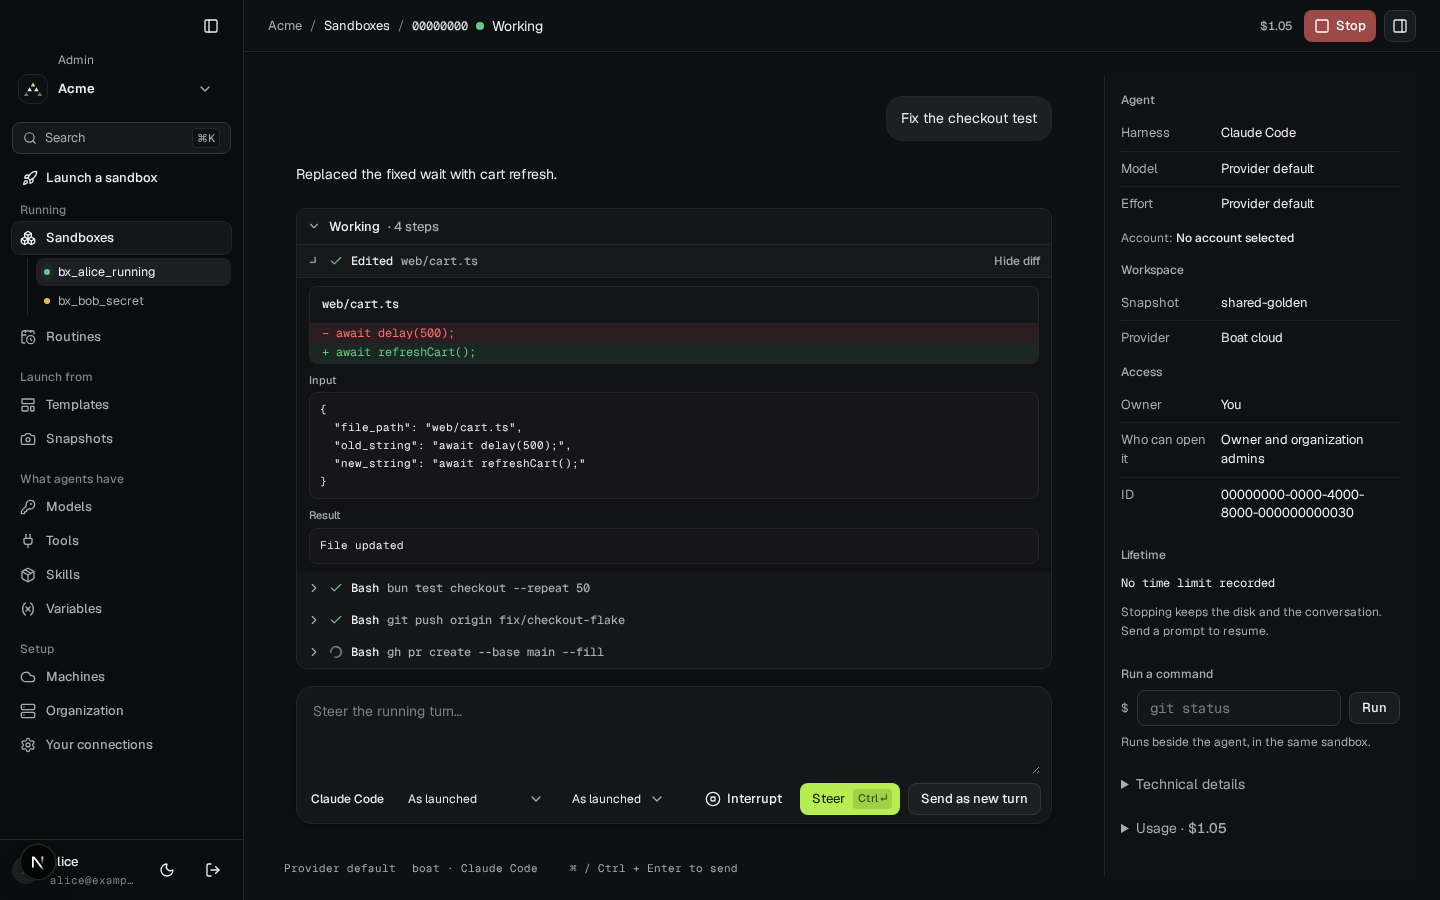
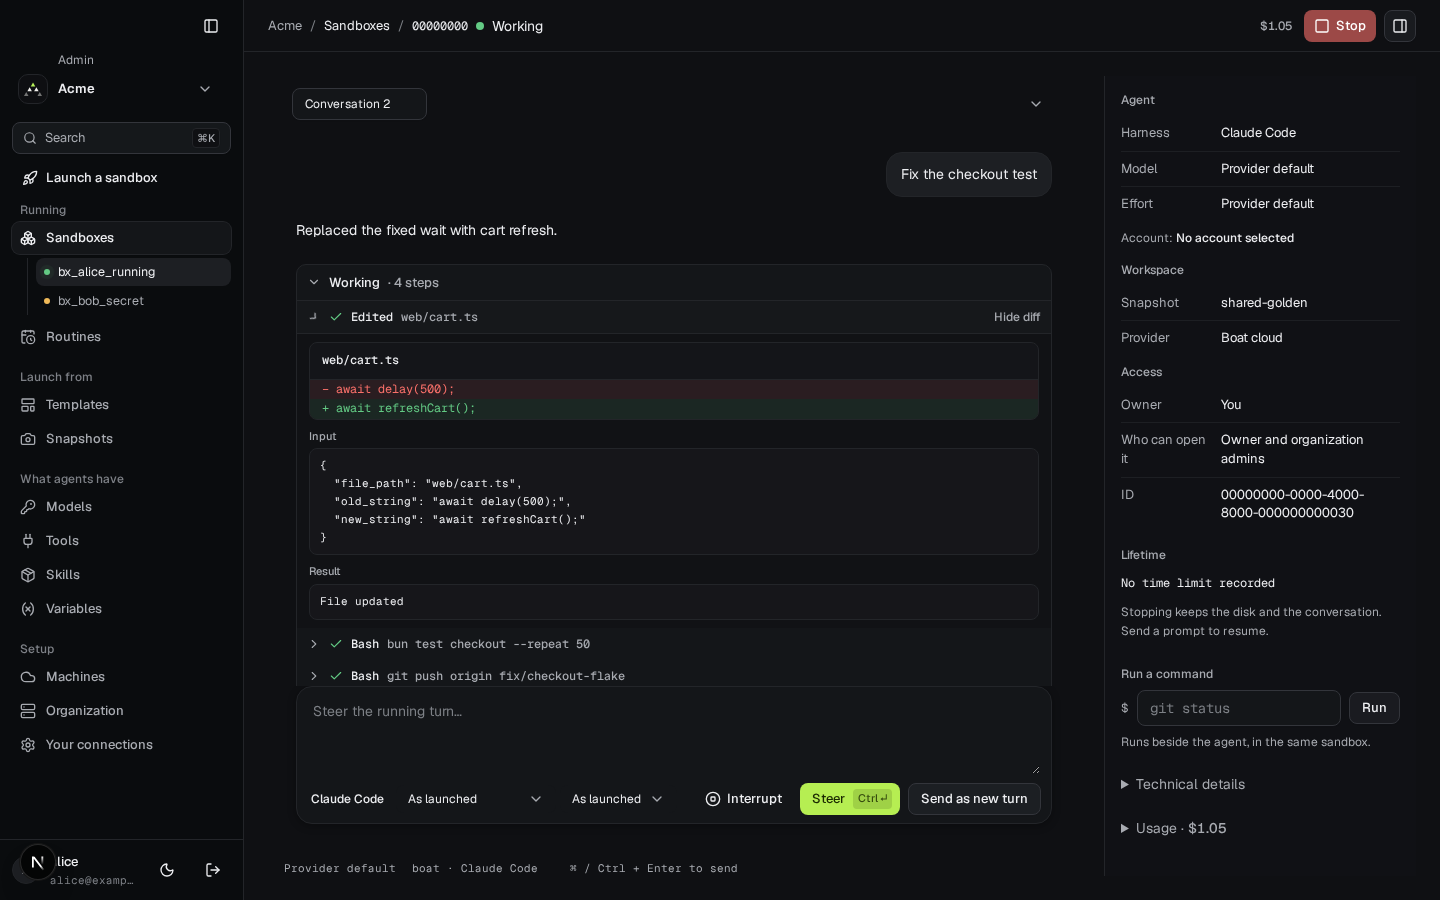
docs(dashboard): show command results alongside prototype

diff --git a/docs/investigations/2511/README.md b/docs/investigations/2511/README.md
@@ -2,7 +2,7 @@
 
 Current-session Playwright Chromium 1254 captures of prototype `Armada.dc.html`, served with `python3 -m http.server 8091 --directory docs/design/refonte-2026-11-16`, and fixture dashboard `bun run dev`. Source: `6eba3b417b3d788bb2a4d3808897939364fac7db`. Linux libraries/fonts were supplied locally under `/tmp`. No deployed service or provider was used.
 
-The default organization is Acme, signed in as Alice. Working uses the default recorded events. Waiting/stopped/failed use the existing fixture lifecycle/event endpoints, with completed or failed prompt outcomes and retained tool results. Starting retains queued/previous history. The diff captures use recorded Edit old/new payloads and Bash command/result events. Large captures use its existing seeded owner-visible sandboxes. An expired deadline is a lifecycle notice, not an invented `expired` sandbox status. Its prototype cell is empty because the prototype offers no dedicated expired thread.
+The default organization is Acme, signed in as Alice. Working uses the default recorded events. Waiting/stopped/failed use the existing fixture lifecycle/event endpoints, with completed or failed prompt outcomes and retained tool results. Starting retains queued/previous history. The diff and command-results captures use recorded Edit old/new payloads and Bash command/result events. The command-results captures expand successful test/push output and retain a running PR command. Large captures use its existing seeded owner-visible sandboxes. An expired deadline is a lifecycle notice, not an invented `expired` sandbox status. Its prototype cell is empty because the prototype offers no dedicated expired thread.
 
 These compare layout and supported controls across different task content; they do not assert identical business data. Prototype phone rows were selected by dispatching click events because its fixed-width overlay intercepts pointer input. The prototype itself clips horizontally at 390px; the fixture retains a usable phone layout.
 
@@ -61,6 +61,11 @@ These compare layout and supported controls across different task content; they 
 | Large / expired / 390×844 / dark | No dedicated prototype state | ![Fixture Large expired-phone-dark](fixture-large-expired-phone-dark.png) |
 | Large / expired / 390×844 / light | No dedicated prototype state | ![Fixture Large expired-phone-light](fixture-large-expired-phone-light.png) |
 
+| Acme / command results, push and running / 1440×900 / dark | ![Prototype command-results-desktop-dark](prototype-command-results-desktop-dark.png) | ![Fixture command-results-desktop-dark](fixture-command-results-desktop-dark.png) |
+| Acme / command results, push and running / 1440×900 / light | ![Prototype command-results-desktop-light](prototype-command-results-desktop-light.png) | ![Fixture command-results-desktop-light](fixture-command-results-desktop-light.png) |
+| Acme / command results, push and running / 390×844 / dark | ![Prototype command-results-phone-dark](prototype-command-results-phone-dark.png) | ![Fixture command-results-phone-dark](fixture-command-results-phone-dark.png) |
+| Acme / command results, push and running / 390×844 / light | ![Prototype command-results-phone-light](prototype-command-results-phone-light.png) | ![Fixture command-results-phone-light](fixture-command-results-phone-light.png) |
+
 ## Delivered
 
 - One shell breadcrumb with adjacent status; full UUID available as a tooltip. Page-owned controls retain their existing authorization checks.
@@ -87,3 +92,5 @@ These compare layout and supported controls across different task content; they 
 - Full dashboard journeys were not run. The relevant thread-control and viewport journeys above were run. These captures document remaining visual differences and are not a claim of coordinator acceptance.
 
 Migration files: none. Deployment prerequisites: none added. No deployments, production operations, or migrations performed.
+
+The coordinator merged the source slices as #2514 (header/details approved) and #2517 (composer pickers approved; phone layout not yet viewed). The remaining evidence PR adds captures; those comments are not claimed as full visual acceptance.
